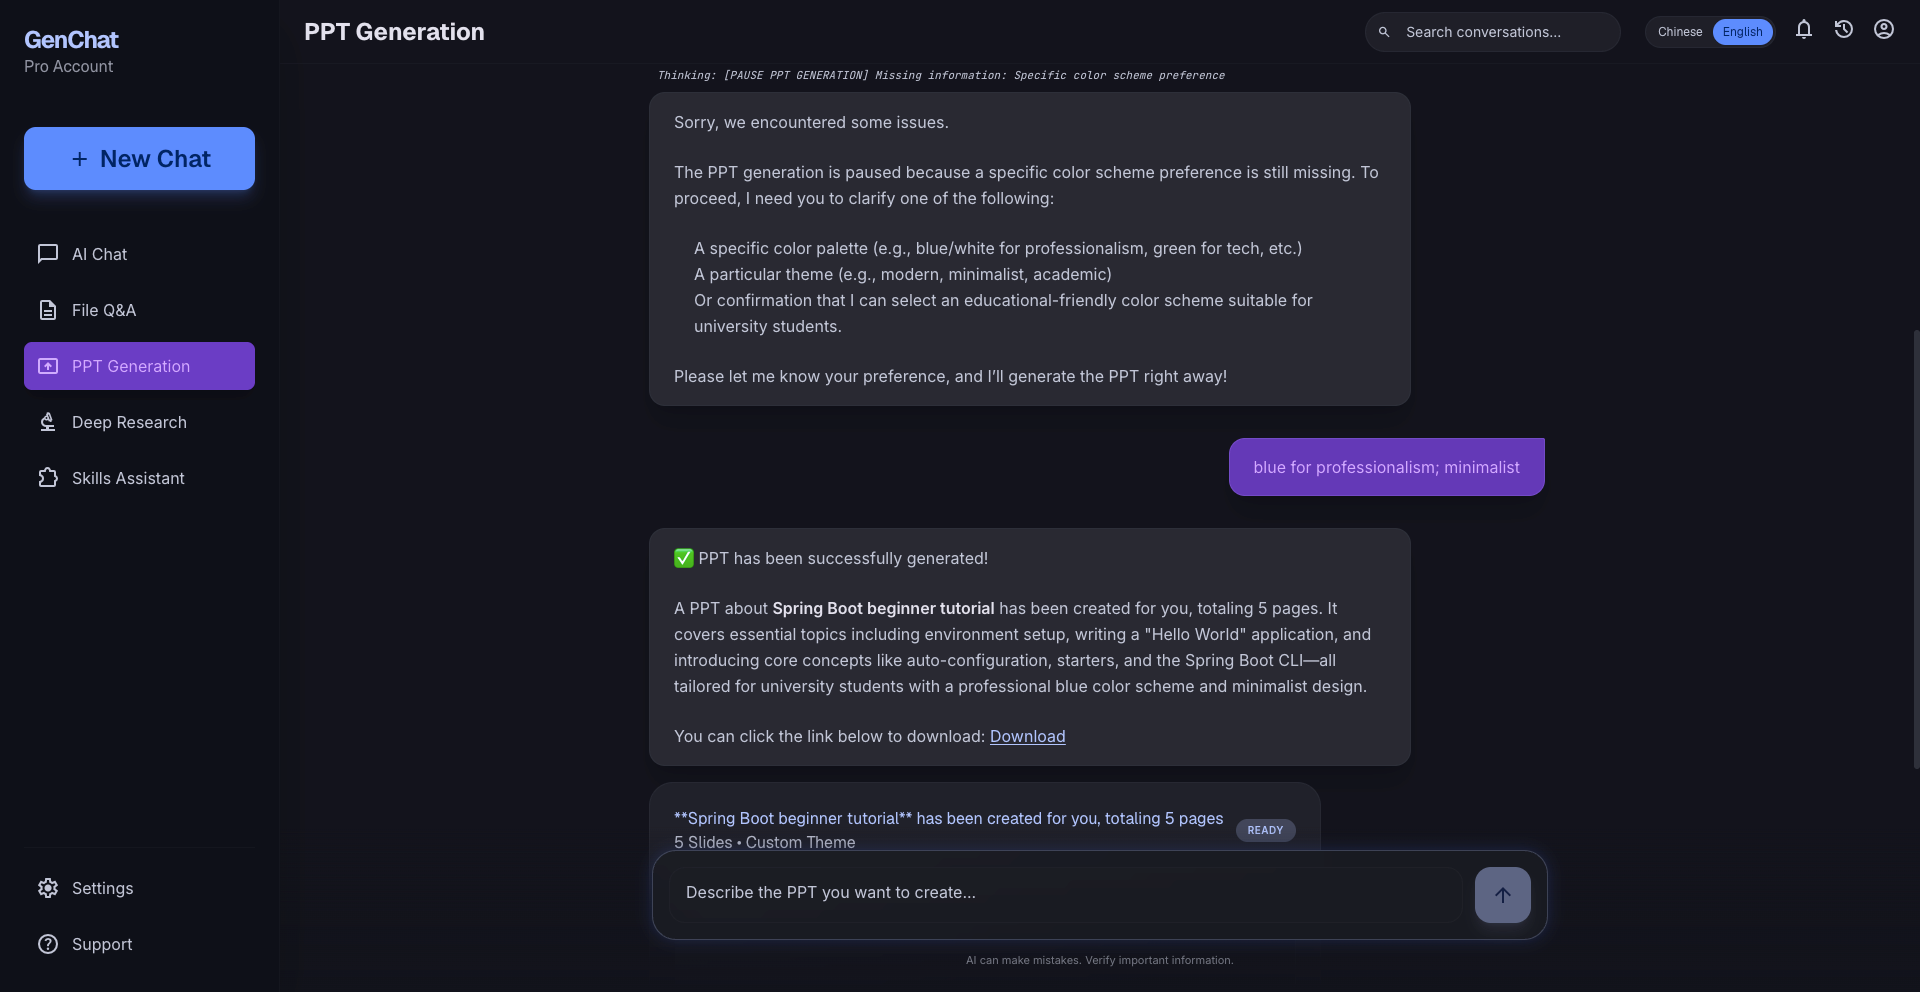
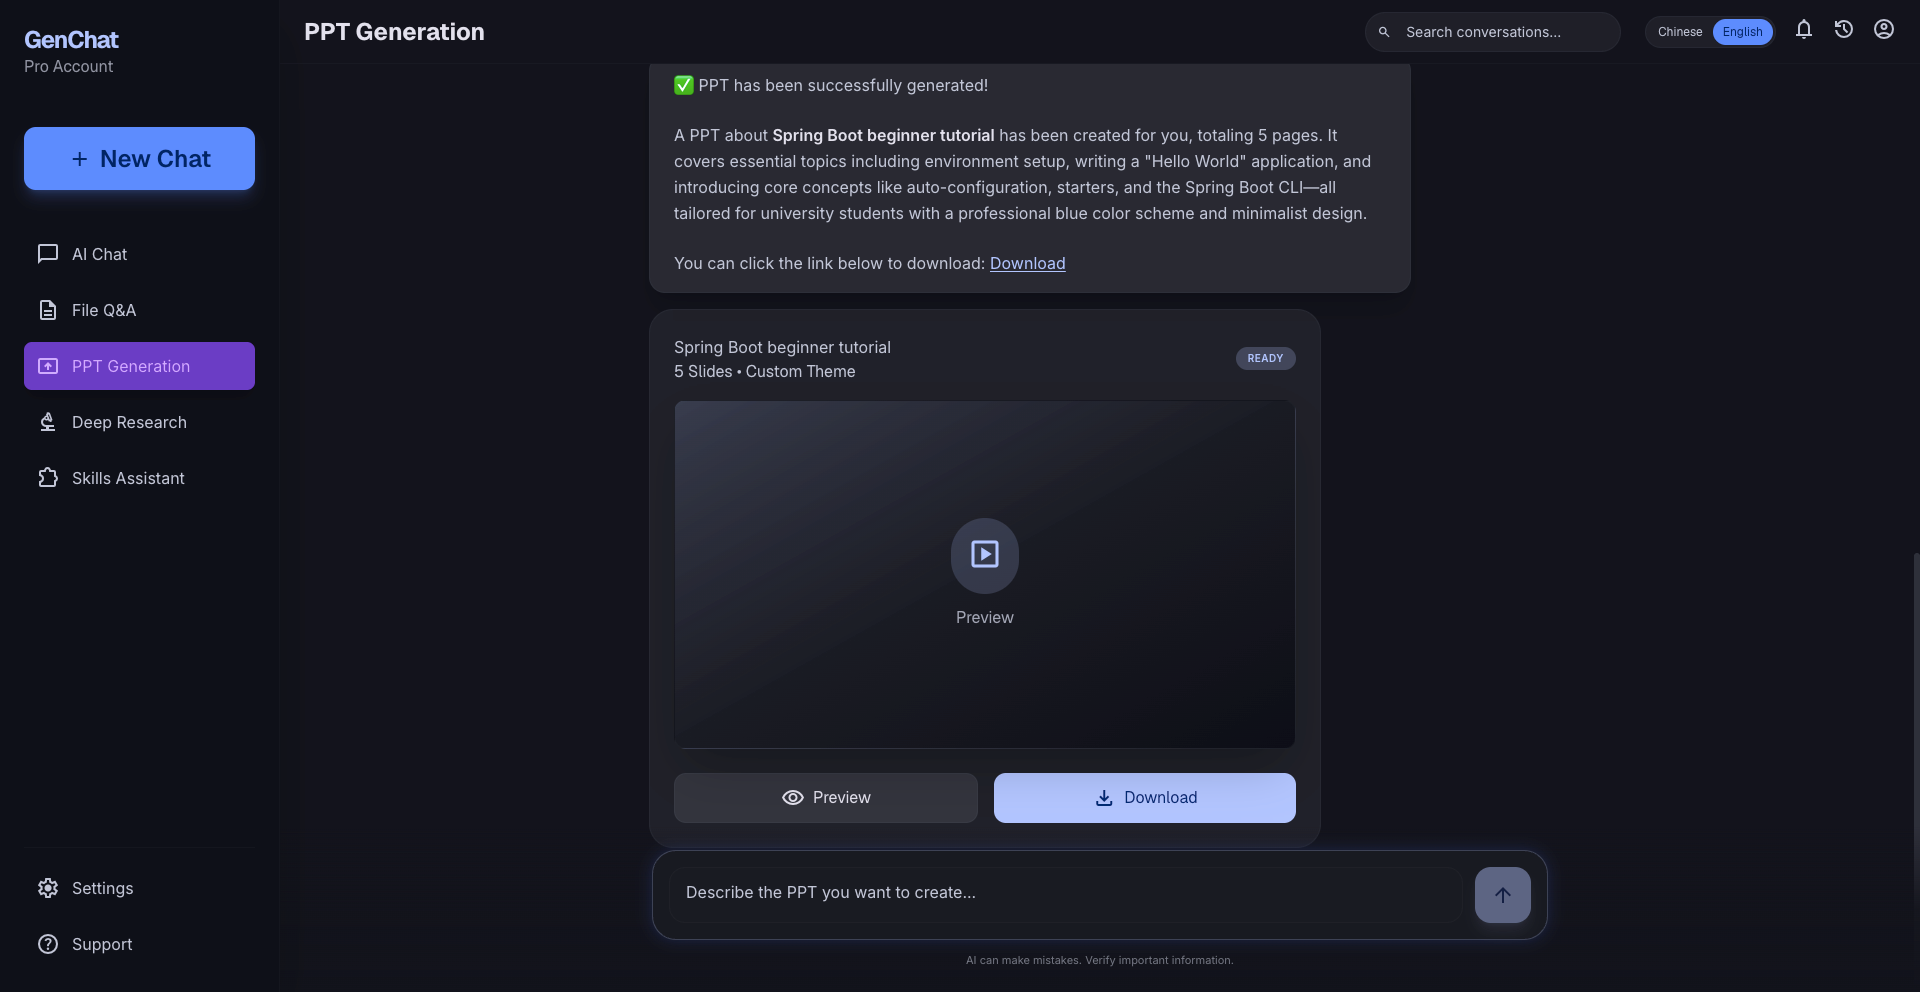
Feat update readme doc

Changed region(s): [[0.3438, 0.0625, 0.75, 0.875], [0.625, 0.4375, 0.8125, 0.5], [0.625, 0.3438, 0.6875, 0.375]]

diff --git a/README_EN.md b/README_EN.md
@@ -34,11 +34,22 @@ GenChat is an intelligent conversation application platform built on Spring AI. 
 - **Streaming Response Control**: Supports real-time streaming output and intelligent interruption control
 - **Information Traceability**: All answers include authoritative reference sources ensuring information reliability
 
+<p>
+  <img src="images/ai-chat-1.png" alt="Web conversation page - 1" width="49%" />
+  <img src="images/ai-chat-2.png" alt="Web conversation page - 2" width="49%" />
+</p>
+
 ### 📁 Multimodal File Analysis
 - **Full Format Support**: PDF, DOCX, TXT, PNG, JPG, and other common document formats
 - **Intelligent Content Extraction**: Implements efficient semantic retrieval for large files using RAG technology
 - **Image Text Recognition**: Parses text information in images through multimodal large language models
 - **Context Awareness**: Automatic association between files and conversation sessions supporting multi-turn deep Q&A
+
+<p>
+  <img src="images/file-qa-1.png" alt="File Q&A page - 1" width="32%" />
+  <img src="images/file-qa-2.png" alt="File Q&A page - 2" width="32%" />
+  <img src="images/file-qa-3.png" alt="File Q&A page - 3" width="32%" />
+</p>
 
 ### 📊 Intelligent Document Generation
 - **Requirement-Driven Generation**: Automatically generates professional PPT documents based on natural language descriptions
@@ -49,16 +60,31 @@ GenChat is an intelligent conversation application platform built on Spring AI. 
 - **Intelligent State Management**: Full-process state control from requirement clarification to final output
 - **Automatic Image Generation**: Integrates text-to-image services to enrich document visual effects
 
+<p>
+  <img src="images/ppt-1.png" alt="PPT generation page - 1" width="32%" />
+  <img src="images/ppt-2.png" alt="PPT generation page - 2" width="32%" />
+  <img src="images/ppt-3.png" alt="PPT generation page - 3" width="32%" />
+</p>
+
 ### 🔍 Deep Research Analysis
 - **Intelligent Planning and Execution**: Automatically decomposes complex problems based on Plan-Execute pattern
 - **Parallel Processing Optimization**: Multi-task parallel execution significantly improves research efficiency
 - **Iterative Optimization Mechanism**: Evaluation-Adjustment-Re-execution loop optimization strategy
 - **Automatic Problem Optimization**: Intelligently enriches and optimizes user's original problem statements
 
+<p>
+  <img src="images/deep-research.png" alt="Deep research page" width="100%" />
+</p>
+
 ### 🧩 Skills Assistant
 - **Extensible Skill Directory**: Load custom skills via `skills.directory` and compose tool capabilities on demand
 - **Multi-tool Collaboration**: Integrates web search, file retrieval, Grep, and more for complex automation tasks
 - **Streaming Interaction**: Same SSE streaming output and stop control as other agents
+
+<p>
+  <img src="images/skills-1.png" alt="Skills page - 1" width="49%" />
+  <img src="images/skills-2.png" alt="Skills page - 2" width="49%" />
+</p>
 
 ## 🚀 Quick Start
 